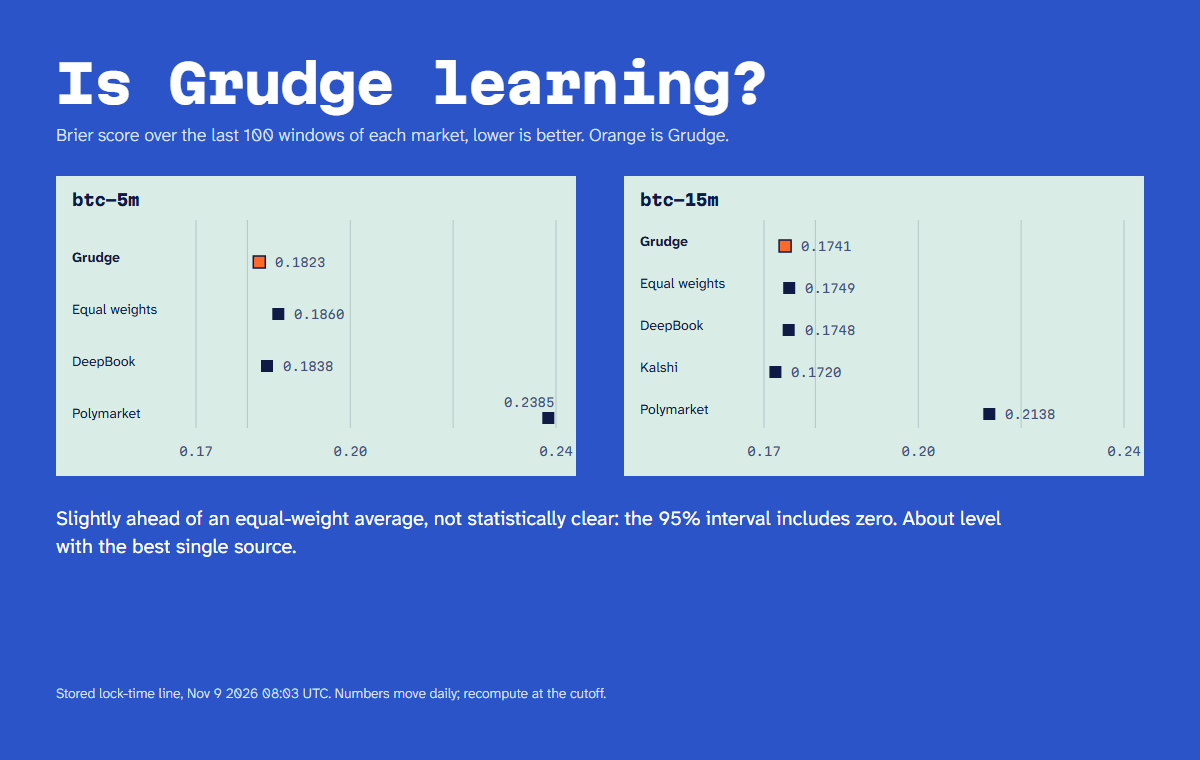
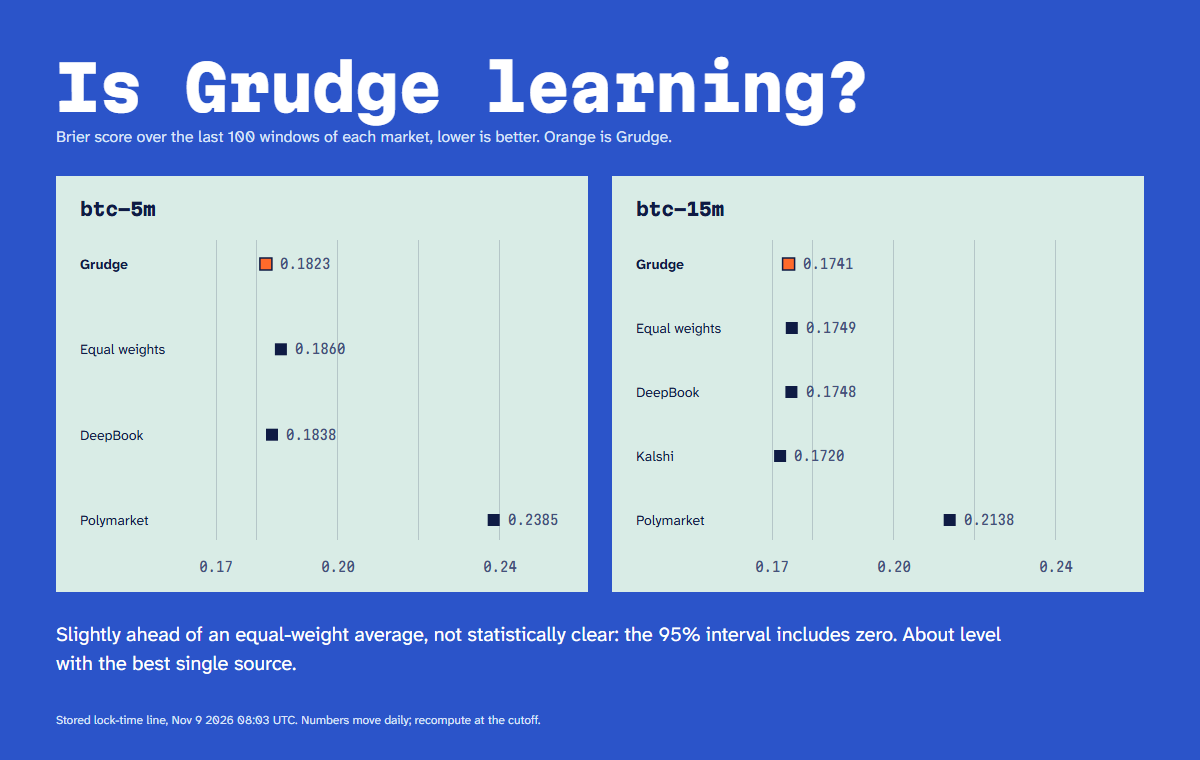
feat: Feathers station-plot mark and the corrected learning figure

diff --git a/docs/HANDOFF.md b/docs/HANDOFF.md
@@ -40,7 +40,7 @@
 
 ## Next (in order)
 1. **Wipe rehearsal: DONE 2026-11-09 08:49 UTC** on production (with the owner's go; Render's `ADMIN_TOKEN` now equals the local `.env` value). Result: `{before: 5, restored: 5, windows: 124, lessons: 15, maxDifference: 0, identical: true}`, HTTP 200; the Board refilled at once (20 ledger rows and a lesson per market); Receipts' Amnesia log shows run `af91249e`. **Side effect to handle:** the database now holds only 124 records (it had 415), because a restore keeps the latest snapshot plus later records; the older records are still on Walrus but are no longer in the database. So Receipts' resolved-window and record counts dropped (the 374 resolved windows in the drafts is now stale: recompute). Remaining: remove the blog's bracketed "rerun the wipe" note, keep the wipe sentences (blog, pitch, video 0:08 to 0:20), and say "124 windows restored" if numbers are quoted. To film it, run the same POST again with the screen recording on (the log will then show two runs).
-2. **Step C assets (no deck: the owner declined it, 2026-11-09).** The owner chose all of them. Claude built a Design artifact, https://claude.ai/artifact/6NgfptsBX3JYdhPLXWeST3 (private; 7 artboards: mark and wordmark with favicon sizes, README banner 1280x640, social 1200x630, blog cover 1600x900, video title and closing cards 1920x1080, "Is Grudge learning?" figure with the 08:03 UTC Nov 9 Brier numbers). The mark is a new station plot (three-quarter okta circle, staff, two barbs); `src/app/icon.svg` still has the retired red and black mark and must be replaced. Done when the owner has reviewed the artboards, asked for changes in Claude Design, exported the PNG and SVG files into the repo (`public/` or `docs/launch/assets/`), swapped `icon.svg`, and README and the blog use them. The blog cover carries no title (the blog title is still a draft). The learning figure must be recomputed at the cutoff. **Update 2026-11-09 (owner approved the artboards):** rendered from the artboards with Playwright into `docs/launch/assets/` (`mark.svg`, `mark-and-wordmark`, `readme-banner`, `social`, `blog-cover`, `video-title`, `video-close`, `learning-figure` PNGs); `src/app/icon.svg` swapped to the new mark and `src/app/apple-icon.png` (180) added. Uncommitted. README now shows the banner; the blog draft and video script name the files. Open nits: at a glance the mark reads like a key (staff with barbs on a ring); the learning figure's Polymarket 0.2385 dot sits on the right edge and "0.24" is tight to the panel, with empty space at the bottom; the banner's stray path is fixed in the artifact.
+2. **Step C assets (no deck: the owner declined it, 2026-11-09).** The owner chose all of them. Claude built a Design artifact, https://claude.ai/artifact/6NgfptsBX3JYdhPLXWeST3 (private; 7 artboards: mark and wordmark with favicon sizes, README banner 1280x640, social 1200x630, blog cover 1600x900, video title and closing cards 1920x1080, "Is Grudge learning?" figure with the 08:03 UTC Nov 9 Brier numbers). The mark is a new station plot (three-quarter okta circle, staff, two barbs); `src/app/icon.svg` still has the retired red and black mark and must be replaced. Done when the owner has reviewed the artboards, asked for changes in Claude Design, exported the PNG and SVG files into the repo (`public/` or `docs/launch/assets/`), swapped `icon.svg`, and README and the blog use them. The blog cover carries no title (the blog title is still a draft). The learning figure must be recomputed at the cutoff. **Update 2026-11-09 (owner approved the artboards):** rendered from the artboards with Playwright into `docs/launch/assets/` (`mark.svg`, `mark-and-wordmark`, `readme-banner`, `social`, `blog-cover`, `video-title`, `video-close`, `learning-figure` PNGs); `src/app/icon.svg` swapped to the new mark and `src/app/apple-icon.png` (180) added. Uncommitted. README now shows the banner; the blog draft and video script name the files. **Second round (owner chose "1b Feathers", 09:20 UTC Nov 9):** Claude Design returned three marks plus a fixed learning figure (`design-from-claude/Grudge Assets Fixes.dc.html`, gitignored). Applied: the Feathers mark (angled staff, two long barbs and a half barb on a three-quarter okta circle, 4/64 stroke, butt ends) replaces the first mark in all boards, `src/app/icon.svg`, `docs/launch/assets/mark.svg` and the PNGs; the learning figure is Claude Design's version (88 px of room past 0.24). `apple-icon.png` is re-rendered from the new mark. The artifact https://claude.ai/artifact/6NgfptsBX3JYdhPLXWeST3 was republished with the same changes. Assets are regenerated by a scratchpad script (`render.mjs`, lost with the scratchpad): re-render by opening each board's HTML and screenshotting at its size.
 3. **At 17:00 UTC Nov 9, read the competitor re-scan:** `RemoteTrigger list_runs` and `get_run_log`; it ends with PLAN CHANGE yes or no. Closest rival: `nancy197/sibyl`. Done when the verdict is recorded under Open questions.
 4. **Before anything goes public, by the 14:00 UTC Nov 10 cutoff:** recompute every number from `/api/receipts` and `/api/board` into a new facts file and the drafts; fill the placeholders ([LIVE URL], [REPO URL], [VIDEO URL], [BLOG URL], [TATUM ACCOUNT ID], [WALRUS DELEGATE KEY], [SUI ADDRESS], [X POST URL], [LINKEDIN POST URL]); change "no visitor has picked yet" once picks exist; run `humanizer` once the owner gives a writing sample; record the video from `docs/launch/VIDEO-SCRIPT.md`; publish the blog; make the X and LinkedIn posts. Done when the form in `docs/SUBMISSION.md` has no placeholder left.
 5. **Make the repo public only when the owner says**, after a last secret scan and a push (a push restarts the worker, so push when no window is about to resolve).
